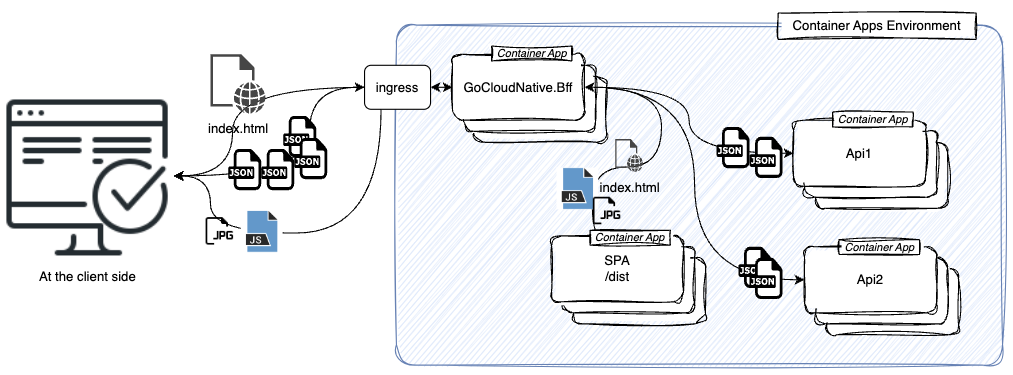
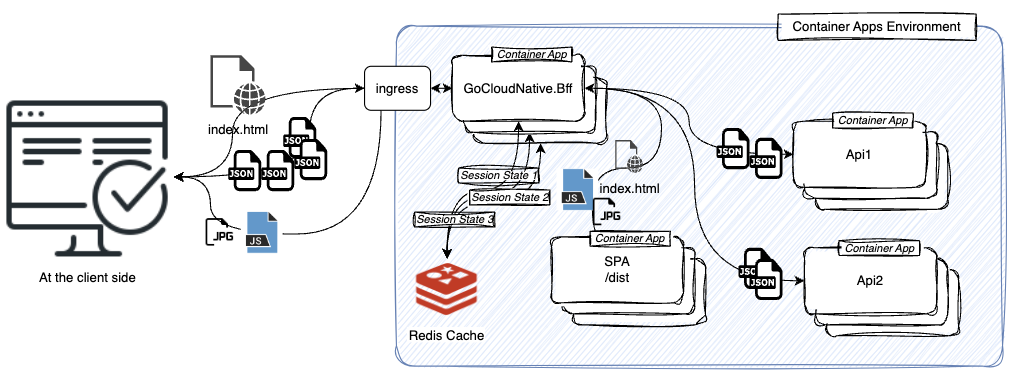
docs: Created docs about how to deploy to azure container apps

diff --git a/docs/gocloudnative.org/content/integration-manuals/azure-container-apps.md b/docs/gocloudnative.org/content/integration-manuals/azure-container-apps.md
@@ -11,3 +11,253 @@ In this article, you will learn how to set up a microservices landscape using Az
 Assuming that the application will scale horizontally, it is likely that the following architecture will emerge:
 
 ![GoCloudNative.Bff authentication flow](https://raw.githubusercontent.com/thecloudnativewebapp/GoCloudNative.Bff/main/docs/gocloudnative.org/content/Diagrams/azure-container-apps-demo.png)
+
+In this diagram, you see the following:
+
+* You see the BFF (Backend for Frontend). It is used as a gateway to other services within the cluster. All traffic goes through this component. It is crucial that this component scales well. It is highly likely that multiple instances of this component are running. The ingress of this component is enabled for external traffic coming from outside the cluster. The URL associated with this container app is the URL that end-users will enter in their browser to access the web app.
+* You also see a Redis Cache. It is used to store the BFF’s state (user sessions). Without this component, the BFF cannot scale horizontally. This component must only be accessible to the BFF.
+* You also see a SPA (Single Page App). That’s an NginX container which serves the "dist" folder of the Single Page App. In this diagram, all requests from the SPA "pass through" the BFF. This is inefficient and unnecessary. However, for the sake of simplicity in this example, we have chosen to do it this way. The only file that needs to pass through the BFF is index.html.
+* And last, but not least, there is an API as well. This API may only be accessible to authenticated users, and the BFF ensures that. The ingress for this API is only enabled for traffic within the cluster. After all, we want to prevent direct access to the API by anyone outside the cluster.
+
+# Deploying the dependencies
+
+In order to run this application, you will require the following components:
+
+* A resource group
+* An Azure Container Environment
+* Three Container Apps
+* An Azure Container Registry
+* An Azure Cache for Redis
+* For this example, we are utilizing Auth0 as the Identity Provider.
+
+This section focuses on the dependencies of the Azure Container Apps. The *subsequent section will delve into the Azure Container App Environment itself.
+
+We assume that you possess experience in deploying this infrastructure within Azure. The script for deploying these resources can be located in the provided file. This article includes excerpts from the script. In the following paragraphs, we will elucidate the key aspects of this infrastructure and the reasoning behind its configuration.
+
+To initiate the creation of the resource group, container registry, and KeyVault, please execute the following commands:
+
+```powershell
+$yourAppName = "yourappname"
+
+$rgName = "rg-$yourAppName"
+$acrName = "acr$yourAppName"
+$cacheName = "redis-$yourAppName";
+
+$location = "westeurope"
+
+az login
+
+# Create the resource group
+az group create --location $location --name $rgName
+
+# Create the container app
+az acr create --resource-group $rgName --location $location --name $acrName --sku Basic --admin-enabled true
+
+# Create the cache. This may take up to 15 minutes...
+az redis create --location $location --name $cacheName --resource-group $rgName --sku Basic --vm-size c0
+```
+## Building the Docker images
+
+To witness the complete application in action within an Azure Container App, you need to build the containers, push them to the deployed container registry, and deploy the container apps to run these containers.
+
+These containers require access to both the Azure Container Registry and the Azure KeyVault.
+
+Execute the following commands to build and push the Docker images:
+
+```powershell 
+# Clone the repostiry
+git clone https://github.com/thecloudnativewebapp/GoCloudNative.Bff.git
+
+# Navigate to the correct folder
+cd GoCloudNative.Bff/docs/demos/Auth0/src
+
+# Build the containers
+docker build -f Bff/Dockerfile -t gocloudnative-demo-bff:1.0 .
+docker build -f Spa/Dockerfile  -t gocloudnative-demo-spa:1.0 .
+docker build -f Api/Dockerfile -t gocloudnative-demo-api:1.0 .
+
+# Log in to the Azure Portal to find the login server value of the 
+# Azure Container Registry you've created in the previous step
+$acrLoginServer = "{loginServer}" 
+
+# Tag the images
+docker tag gocloudnative-demo-bff:1.0 "$acrLoginServer/bffdemo-bff:1.0"
+docker tag gocloudnative-demo-spa:1.0 "$acrLoginServer/bffdemo-spa:1.0"
+docker tag gocloudnative-demo-api:1.0 "$acrLoginServer/bffdemo-api:1.0"
+
+# Push the images
+az acr login --name $acrLoginServer
+docker push "$acrLoginServer/bffdemo-bff:1.0"
+docker push "$acrLoginServer/bffdemo-spa:1.0"
+docker push "$acrLoginServer/bffdemo-api:1.0"
+```
+
+## Deploying the Azure Container Apps Environment
+
+To deploy the images we have recently uploaded to the container registry in a Container App, an Azure Container Apps Environment is required. This environment relies on a log analytics workspace. To deploy both the environment and the workspace, run the following script:
+
+In this guide, we are utilizing the Auth0 sample [available in our GitHub repository](https://github.com/thecloudnativewebapp/GoCloudNative.Bff/tree/main/docs/demos/Auth0/src). This sample includes a functional BFF (built with GoCloudNative.Bff), an API, and an Angular test app. Each component is accompanied by its respective Dockerfile for container building. Additionally, the demo includes a script for container building.
+
+
+```powershell
+$yourAppName = "yourappname"
+
+$rgName = "rg-$yourAppName"
+$logWorkspaceName = "la-$yourAppName"
+$envName = "env-$yourAppName"
+
+# Create the workspace and obtain the key required by the container
+# app environment to access it
+$monitorJson = az monitor log-analytics workspace create 
+    -g $rgName 
+    -n $logWorkspaceName
+
+$sharedKeysJson = az monitor log-analytics workspace get-shared-keys 
+    --resource-group $rgName 
+    --workspace-name $logWorkspaceName
+
+$monitor = $monitorJson | ConvertFrom-Json
+$sharedKeys = $sharedKeysJson | ConvertFrom-Json
+
+# Create the container app environment
+az containerapp env create 
+    -n $envName 
+    -g $rgName 
+    --location $location 
+    --logs-workspace-id $monitor.customerId 
+    --logs-workspace-key $sharedKeys.primarySharedKey
+
+```
+
+## Configuring Auth0 and deploying the API and the Single Page Application
+
+In order for the BFF application we are about to deploy to authenticate using Auth0, you need to configure Auth0 following the instructions provided in the [Auth0 quickstart](/integration-manuals/quickstarts/auth0/quickstart).
+
+Within the quickstart, you will find the necessary details such as the Auth0 Domain, Audience, ClientId, and Secret. These values are required for the successful configuration of the BFF and the API.
+
+After you have configured Auth0, first, you must deploy the Single-Page Application and the API. To create the Azure Container Apps which will run these applications, please execute the provided script:
+
+```powershell
+$yourAppName = "yourappname"
+$acrLoginServer = "???"
+
+$auth0Domain = "???" # Values from the Auth0 quickstart
+$auth0Audience = "???"
+
+$envName = "env-$yourAppName"
+$spaAppName = "app-$yourAppName-spa"
+$apiAppName = "app-$yourAppName-api"
+
+$spaApp = az containerapp create -n $spaAppName `
+    -g $rgName `
+    --image "$acrLoginServer/bffdemo-spa:1.0" `
+    --environment $envName `
+    --cpu 0.5 `
+    --memory 1.0Gi `
+    --min-replicas 2 `
+    --max-replicas 2 `
+    --ingress internal --target-port 80 `
+    --registry-server $acrLoginServer | ConvertFrom-Json
+
+$apiApp = az containerapp create -n $apiAppName `
+    -g $rgName `
+    --image "$acrLoginServer/bffdemo-api:1.0" `
+    --environment $envName `
+    --cpu 0.5 `
+    --memory 1.0Gi `
+    --min-replicas 2 `
+    --max-replicas 2 `
+    --ingress internal --target-port 80 `
+    --registry-server $acrLoginServer `
+    --secrets auth0domain=$auth0Domain auth0audience=$auth0Audience `
+    --env-vars Auth0__Domain=secretref:auth0domain Auth0__Audience=secretref:auth0audience | ConvertFrom-Json
+```
+
+Please note that both the Single-Page Application and the API have the ingress enabled and set to internal. This configuration is essential to ensure that these resources can only be accessed through the BFF.
+
+Furthermore, it is important to mention that, for the purpose of this demo, the secrets are not stored in a KeyVault. However, we highly recommend utilizing a KeyVault to securely store such sensitive values when you deploy your app to production.
+
+## Deploying the BFF
+
+A significant advantage of a container platform is its ability to scale horizontally. In this demonstration, each Container App has been set up to maintain a minimum of two instances consistently.
+
+However, as indicated in the diagram provided earlier, this poses a challenge for the BFF. Since traffic is distributed randomly across nodes, there is a possibility that users may encounter errors due to the lack of shared session state. To address this issue, we need to configure the connection string to Redis. By doing so, we can configure the BFF Container App to store its session state in Redis.
+
+To create Azure Cache for Redis, and to create the connection string, execute the following commands:
+
+```powershell
+$yourAppName = "yourappname"
+
+$cacheName = "redis-$yourAppName";
+
+$location = "westeurope"
+
+$redis = az redis create --location $location --name $cacheName --resource-group $rgName --sku Basic --vm-size c0 | ConvertFrom-Json
+
+$redisAccessKey = $redis.accessKeys.primaryKey
+$redisPort = $redis.sslPort
+$redisHost = $redis.hostName
+
+$redisConnectionString = "$redisHost`:$redisPort,password=$redisAccessKey,ssl=True,abortConnect=False"
+```
+
+Once you have successfully created the Redis connection string, deployed the Single Page Application (SPA) and the API, you can proceed with deploying the BFF (Backend For Frontend). Before deploying the BFF, you must configure additional Auth0-related variables. Ensure that these values match the ones you set up during the initial setup using the provided quickstart guide.
+
+As shown in the diagram at the beginning of this article, the BFF acts as a proxy for both the APIs and the Single Page Application. Therefore, the BFF needs to know the location of these services. To achieve this, you will need the output from the previously executed commands, which are stored in the `$spaApp` and `$apiApp` variables. These variables contain the URLs to which the BFF will forward requests.
+
+You can use the following commands to accomplish this:
+
+```powershell
+$yourAppName = "yourappname3"
+
+$rgName = "rg-$yourAppName"
+$acrLoginServer = "???" # look this up in the Azure portal
+$envName = "env-$yourAppName"
+
+$bffAppName = "app-$yourAppName-bff"
+
+$location = "westeurope"
+
+$apiUrlFqdn = $apiApp.properties.configuration.ingress.fqdn
+$apiUrl = "https://$apiUrlFqdn"
+
+$spaUrlFqdn = $spaApp.properties.configuration.ingress.fqdn
+$spaUrl = "https://$spaUrlFqdn"
+
+az containerapp create -n $bffAppName 
+    -g $rgName 
+    --image "$acrLoginServer/bffdemo-bff:1.0" 
+    --environment $envName 
+    --cpu 0.5 
+    --memory 1.0Gi 
+    --min-replicas 2 
+    --max-replicas 2 
+    --ingress external --target-port 80 
+    --registry-server $acrLoginServer 
+    --secrets auth0domain=$auth0Domain auth0audience=$auth0Audience auth0clientid=$auth0ClientId auth0clientsecret=$auth0ClientSecret redisconnectionstring=$redisConnectionString `
+    --env-vars Auth0__Domain=secretref:auth0domain Auth0__Audience=secretref:auth0audience Auth0__ClientId=secretref:auth0ClientId Auth0__ClientSecret=secretref:auth0clientsecret REVERSEPROXY__CLUSTERS__SPA__DESTINATIONS__SPA__ADDRESS=$spaUrl REVERSEPROXY__CLUSTERS__API__DESTINATIONS__API__ADDRESS=$apiUrl ConnectionStrings__Redis=secretref:redisConnectionString
+```
+
+After creating the BFF Container App, Azure Container Apps automatically generates a hostname for you. This hostname is crucial for configuring Auth0, specifically the redirect URL. Failure to configure the redirect URL will prevent successful login. In my case, the redirect URI is:
+
+`https://app-yourappname-bff.bluepond-ea035e9a.westeurope.azurecontainerapps.io/account/login/callback`
+
+It's important to note that unlike the other Container Apps, the BFF has its `ingress` configured to be externally accessible. This serves as the entry point for the application. If you open your browser and navigate to the URL of the BFF (e.g., `https://app-yourappname-bff.bluepond-ea035e9a.westeurope.azurecontainerapps.io/`), you should now see a functional website that looks like this:
+
+![Demo app](https://raw.githubusercontent.com/thecloudnativewebapp/GoCloudNative.Bff/main/docs/gocloudnative.org/content/Diagrams/demo-app.png)
+
+## Summary
+To deploy an application utilizing the BFF Security Pattern on Azure Container Apps, follow the steps outlined below:
+
+* Configure Auth0 by referring to the [provided quickstart guide](/integration-manuals/quickstarts/auth0/quickstart).
+* Deploy an Azure Container Registry.
+* Upload the container images to the Azure Container Registry.
+* Deploy an Azure Cache for Redis instance.
+* Deploy the Azure Container Apps Environment.
+* Begin by deploying the Single Page Application Container App, followed by the API Azure Container App.
+* Finally, deploy the BFF Azure Container App and configure it as follows:
+    * Utilize the Azure Cache for Redis instance to store the session state.
+    *  Configure the necessary Auth0 environment variables.
+    *  Configure the URLs to the downstream services.
+
+For detailed instructions on executing these steps, refer to [this script](https://github.com/thecloudnativewebapp/GoCloudNative.Bff/blob/main/docs/demos/Auth0/src/deploy-to-azure.ps1).
